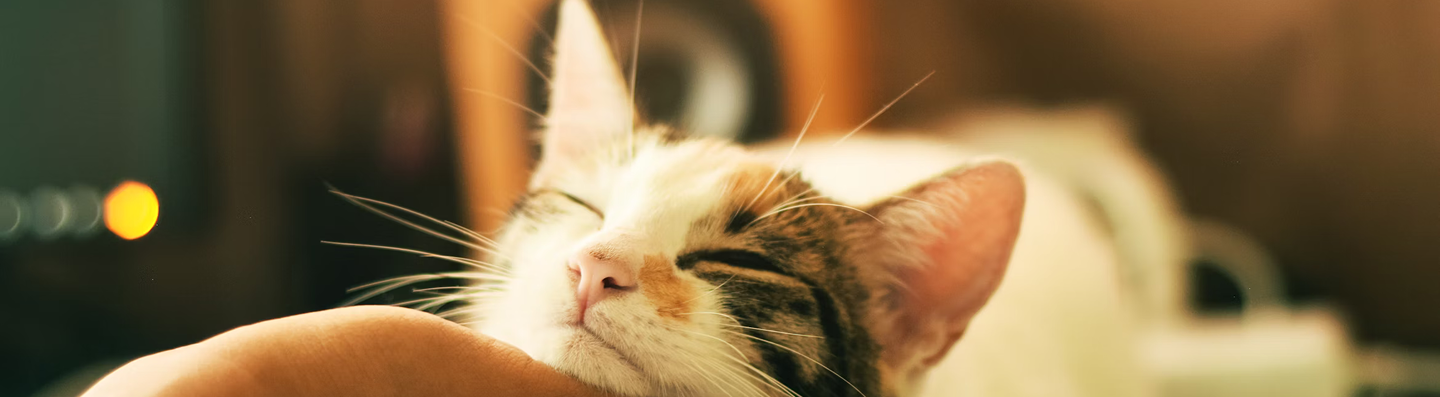
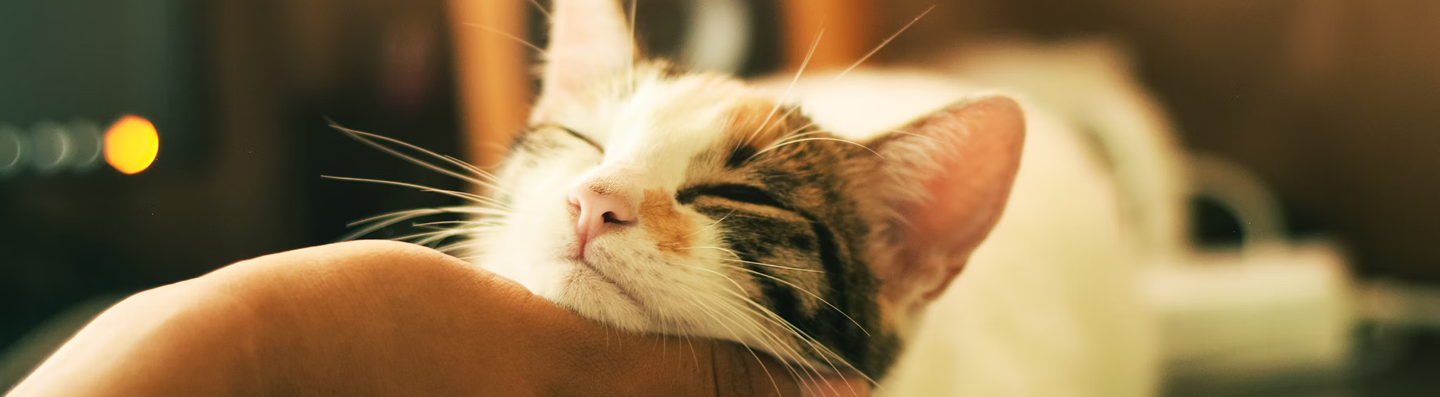
fix : resize the hero section image

diff --git a/resources/css/public/contact.scss b/resources/css/public/contact.scss
@@ -1,10 +1,8 @@
 @import "../settings/breakpoints.scss";
-.contact-hero{
+.bg-img__section{
     position: relative;
     width: 100%;
     height: 60vh;
-    background-image: linear-gradient(to bottom, rgba(0, 0, 0, 0) 0%, rgba(0, 0, 0, 0.3) 50%, rgba(0, 0, 0, 0.7) 100%),
-    url('../../../public/img/contact.png');
     background-size: cover;
     background-position: center;
     background-repeat: no-repeat;
@@ -12,7 +10,14 @@
     flex-direction: column;
     justify-content: end;
     color: var(--white);
+}
+
+.contact-hero{
+    background-image: linear-gradient(to bottom, rgba(0, 0, 0, 0) 0%, rgba(0, 0, 0, 0.3) 50%, rgba(0, 0, 0, 0.7) 100%),
+    url('../../../public/img/contact-small.png');
     @include max-desktop{
+        background-image: linear-gradient(to bottom, rgba(0, 0, 0, 0) 0%, rgba(0, 0, 0, 0.3) 50%, rgba(0, 0, 0, 0.7) 100%),
+        url('../../../public/img/contact.png');
         height: 50vh;
     }
     &__title{
@@ -31,6 +36,7 @@
     }
     &__subtitle{
         max-width: 900px;
+        font-weight: 400;
         @include min-tablet{
             font-size: 12px;
         }
@@ -38,19 +44,19 @@
             font-size: 16px;
         }
     }
-    .contact__content{
-        padding: 0 32px 22px;
-        @include max-desktop{
-            padding: 0 96px 60px;
-            max-width: 1400px;
-            margin: 0 auto;
-        }
-        @include tablet{
-            padding: 0 76px 32px;
-        }
+}
 
-
-
+.contact__content{
+    padding: 0 32px 32px;
+    @include max-desktop{
+        padding: 0 96px 60px;
+    }
+    @include wide{
+        max-width: 1400px;
+        margin: 0 auto;
+    }
+    @include tablet{
+        padding: 0 76px 40px;
     }
 }
 
@@ -107,6 +113,7 @@
         width: 100%;
         display: inline-block;
         box-sizing: border-box;
+        border: 1px solid var(--grey-medium);
     }
     &__label{
         padding-bottom: 8px;

diff --git a/resources/css/public/animals-index.scss b/resources/css/public/animals-index.scss
@@ -179,3 +179,19 @@
 .rdv__label{
     padding-bottom: 8px;
 }
+
+.animals__divider{
+    width: 257px;
+    padding-bottom: 8px;
+    @include min-tablet{
+        width: 200px;
+    }
+}
+.animals-hero{
+    background-image: linear-gradient(to bottom, rgba(0, 0, 0, 0) 0%, rgba(0, 0, 0, 0.3) 50%, rgba(0, 0, 0, 0.7) 100%),
+    url('../../../public/img/cat.png');
+    @include mobile{
+        background-image: linear-gradient(to bottom, rgba(0, 0, 0, 0) 0%, rgba(0, 0, 0, 0.3) 50%, rgba(0, 0, 0, 0.7) 100%),
+        url('../../../public/img/cat-small.png');
+    }
+}

diff --git a/resources/css/public/home.scss b/resources/css/public/home.scss
@@ -62,7 +62,7 @@
     max-width: 1400px;
     margin: 0 auto;
     @include max-desktop{
-        padding: 0 96px 76px;
+        padding: 0 96px 26px;
         flex-direction: row;
         transform: translateY(-40px);
     }

diff --git a/resources/views/public/contact.blade.php b/resources/views/public/contact.blade.php
@@ -1,11 +1,11 @@
 @include('components.public.header')
 <main>
-    <section class="contact-hero">
+    <section class="contact-hero bg-img__section">
         <div class="contact__content">
             <h1 class="contact-hero__title">Nous contacter</h1>
-            <svg class="contact-hero__divider" width="260" height="10" viewBox="0 0 260 10" fill="none" xmlns="http://www.w3.org/2000/svg">
-                <line x1="1.5" y1="1.5" x2="258.5" y2="1.5" stroke="#EEE1D1" stroke-width="3" stroke-linecap="round"/>
-                <line x1="58.4474" y1="8.4492" x2="258.449" y2="1.55258" stroke="#EEE1D1" stroke-width="3" stroke-linecap="round"/>
+            <svg class="contact-hero__divider" width="346" height="12" viewBox="0 0 346 12" fill="none" xmlns="http://www.w3.org/2000/svg">
+                <line x1="1.6" y1="1.60001" x2="344.4" y2="1.60001" stroke="#EEE1D1" stroke-width="3.2" stroke-linecap="round"/>
+                <line x1="53.5559" y1="9.55708" x2="344.357" y2="1.64413" stroke="#EEE1D1" stroke-width="3.2" stroke-linecap="round"/>
             </svg>
 
             <p class="contact-hero__subtitle">Devenez la personne qui, chaque jour, offrent de leur temps et de leur énergie pour prendre soin de nos animaux. Grâce à leur engagement, chaque animal reçoit l’attention et l’amour qu’il mérite.</p>
@@ -30,24 +30,24 @@
             <form class="contact-form__form" action="#" method="post">
                 <small class="contact-form__small">Les champs renseignés avec (*) sont obligatoires ! </small>
                 <div class="contact-form__group">
-                    <label class="contact-form__label" for="firstname">Votre prénom*</label>
+                    <label class="contact-form__label" for="firstname">Votre prénom <small>*</small></label>
                     <input class="contact-form__input" type="text" name="firstname" id="firstname"
                            placeholder="ex: Jane">
                 </div>
 
                 <div class="contact-form__group">
-                    <label class="contact-form__label" for="lastname">Votre nom*</label>
+                    <label class="contact-form__label" for="lastname">Votre nom <small>*</small></label>
                     <input class="contact-form__input" type="text" name="lastname" id="lastname" placeholder="ex: Doe">
                 </div>
 
                 <div class="contact-form__group">
-                    <label class="contact-form__label" for="email">Votre email*</label>
+                    <label class="contact-form__label" for="email">Votre email <small>*</small></label>
                     <input class="contact-form__input" type="email" name="email" id="email"
                            placeholder="ex: janedoe@gmail.com">
                 </div>
 
                 <div class="contact-form__group">
-                    <label class="contact-form__label" for="message">Votre message*</label>
+                    <label class="contact-form__label" for="message">Votre message <small>*</small></label>
                     <textarea class="contact-form__input" id="message" name="message" rows="5"
                               placeholder="ex: Je voudrais rejoindre votre équipe pour ..."></textarea>
                 </div>

diff --git a/resources/views/public/animals/index.blade.php b/resources/views/public/animals/index.blade.php
@@ -1,8 +1,8 @@
 @include('components.public.header')
-<section class="contact-hero ">
+<section class="animals-hero bg-img__section ">
     <div class="contact__content">
         <h1 class="contact-hero__title">Nos animaux</h1>
-        <svg class="contact-hero__divider" width="319" height="15" viewBox="0 0 319 15"
+        <svg class="animals__divider" width="319" height="15" viewBox="0 0 319 15"
              xmlns="http://www.w3.org/2000/svg">
             <path d="M2.5 2.5H316.5" stroke="#EDE0D4" stroke-width="5" stroke-linecap="round"/>
             <path d="M44.5 12.5L295.391 3" stroke="#EDE0D4" stroke-width="5" stroke-linecap="round"/>
